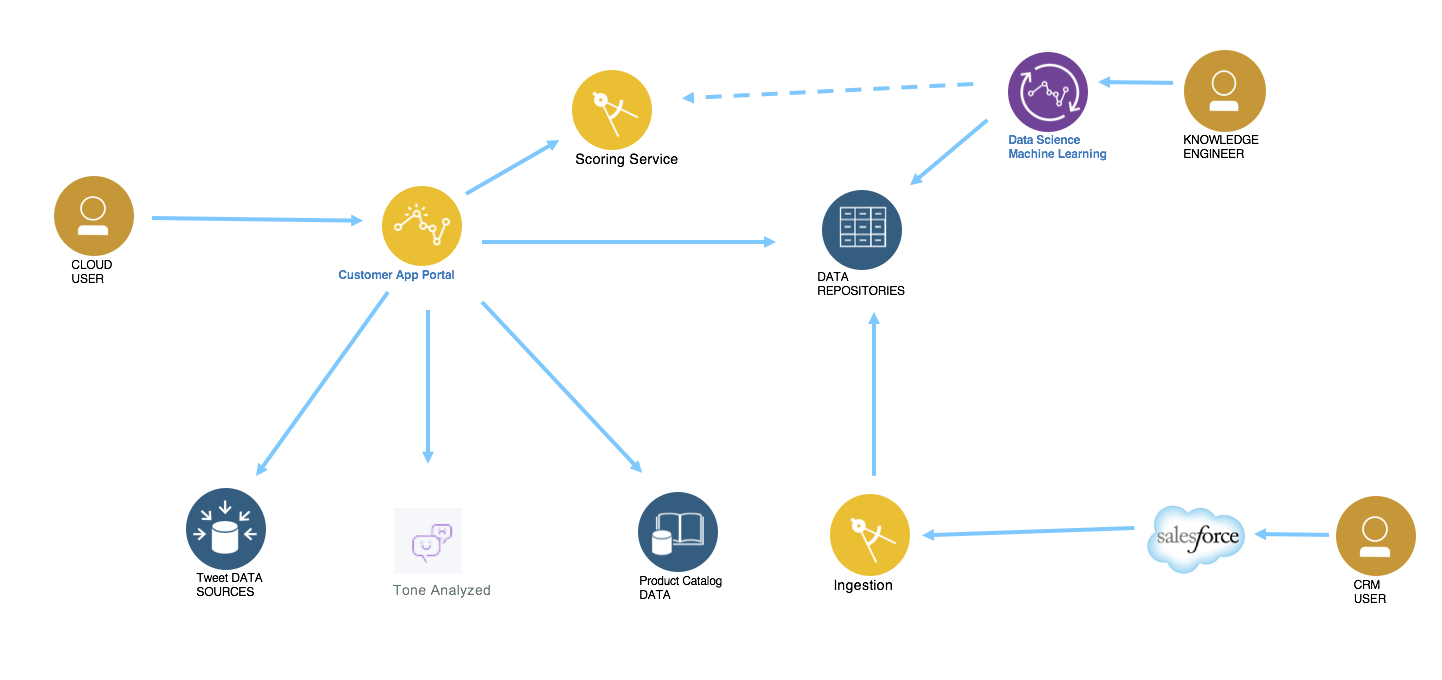
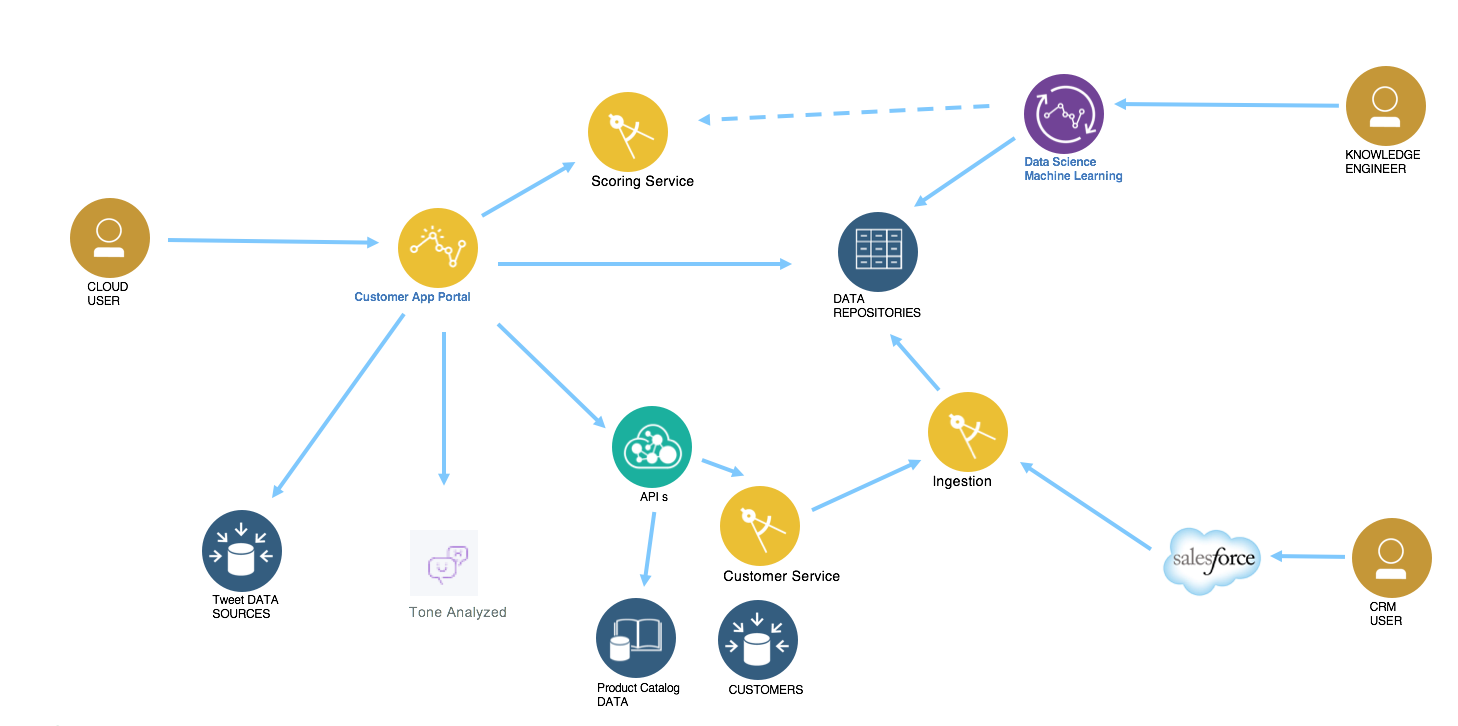
add component description and challenges

diff --git a/README.md b/README.md
@@ -11,6 +11,7 @@ To get explanation of the components involved in this architecture see [Architec
 # Table of Contents
 * [Data Sciences quick introduction](#data-sciences)
 * [Solution overview](#solution_overview)
+* [Repositories of the solution](#repositories)
 * [Build and Run](#build_and_run)
 * [DevOps](#devops)
 * [Service management](#service_management)
@@ -26,16 +27,39 @@ This is all about using mathematical and statistical methods to forecast future 
 ## Prescriptive analytics
 Prescriptive analytics is used to optimize business decisions by simulating scenarios based on a set of constraints. The grocery store owner  wants to creating a staffing schedule for his employees, but to do so he will have to account for factors like availability, vacation time, number of hours of work, potential emergencies and so on (constraints) and create a schedule that works for everyone while ensuring that his business is able to function on a day to day basis.
 
+## Some concepts
+
+## Challenges
+There are a set of standard challenges while developing an IT solution which integrates results from analytics model. We are listing some that we want to address, document and support as requirements.
+* Are we considering a scoring service or a classification one?
+* Is it a batch processing to update static records or real time processing
+* How to control resource allocation for Machine Learning job.
+* How to manage consistency between model and data and code: version management
+* How to assess the features needed for the training and test sets.
+* How to leverage real time cognitive / deep learning classification inside scoring service
+
 ## Methodology
-Combining the development of analytics, machine learning and traditional software development involves adapting the agile iterative methodology. At IBM we are using the Design thinking and lean approach for developing innovative business applications. The garage method explains this approach. In [this article](./docs/methodology.md) we cover the specifics activities for analytics. 
+Combining the development of analytics, machine learning and traditional software development involves adapting the agile iterative methodology. At IBM we are using the Design thinking and lean approach for developing innovative business applications. The garage method explains this approach. In [this article](./docs/methodology.md) we cover the specifics activities for analytics.
 
 # Solution Overview
-The approach is to over the following capabilities:
-* Develop model with Data Science eXperience
-* Integrate to different data sources
+The solution needs to cover the following capabilities:
+* Develop model with Data Science eXperience using static data loaded in DSX or in DB2 Warehouse
+* Move data from static database to Db2 warehouse
+* Integrate to different data sources in real time to get value for selected features
 
-The system context may look like:  
+The system context may look like the following figure:  
 ![](docs/gr-syst-ctx.png)
+
+* The data scientists are using DSX to collaborate on models. The data they work one are coming from DB2 warehouse
+* The finalized model is implemented and deployed as a scoring service using a micro service approach
+* Data may come from different data sources, customer internal database, and SaaS CRM application, tone analyzer service and tweet classifications
+* A front end application is developed to interact with the user and consume the scoring service to assess the risk for churn
+* The front end application is using a product catalog managed by a MDM, and can interact with the customer database via APIs defined in API management and supported by a data access layer micro service.
+
+# Repositories
+The following repositories are part of the solution
+* [Customer micro service](https://github.com/ibm-cloud-architecture/refarch-integration-services)
+* [Integration tests](https://github.com/ibm-cloud-architecture/refarch-integration-tests)
 
 # Build and run
 * [Notebook samples](jupyter-notebooks/README.md)
